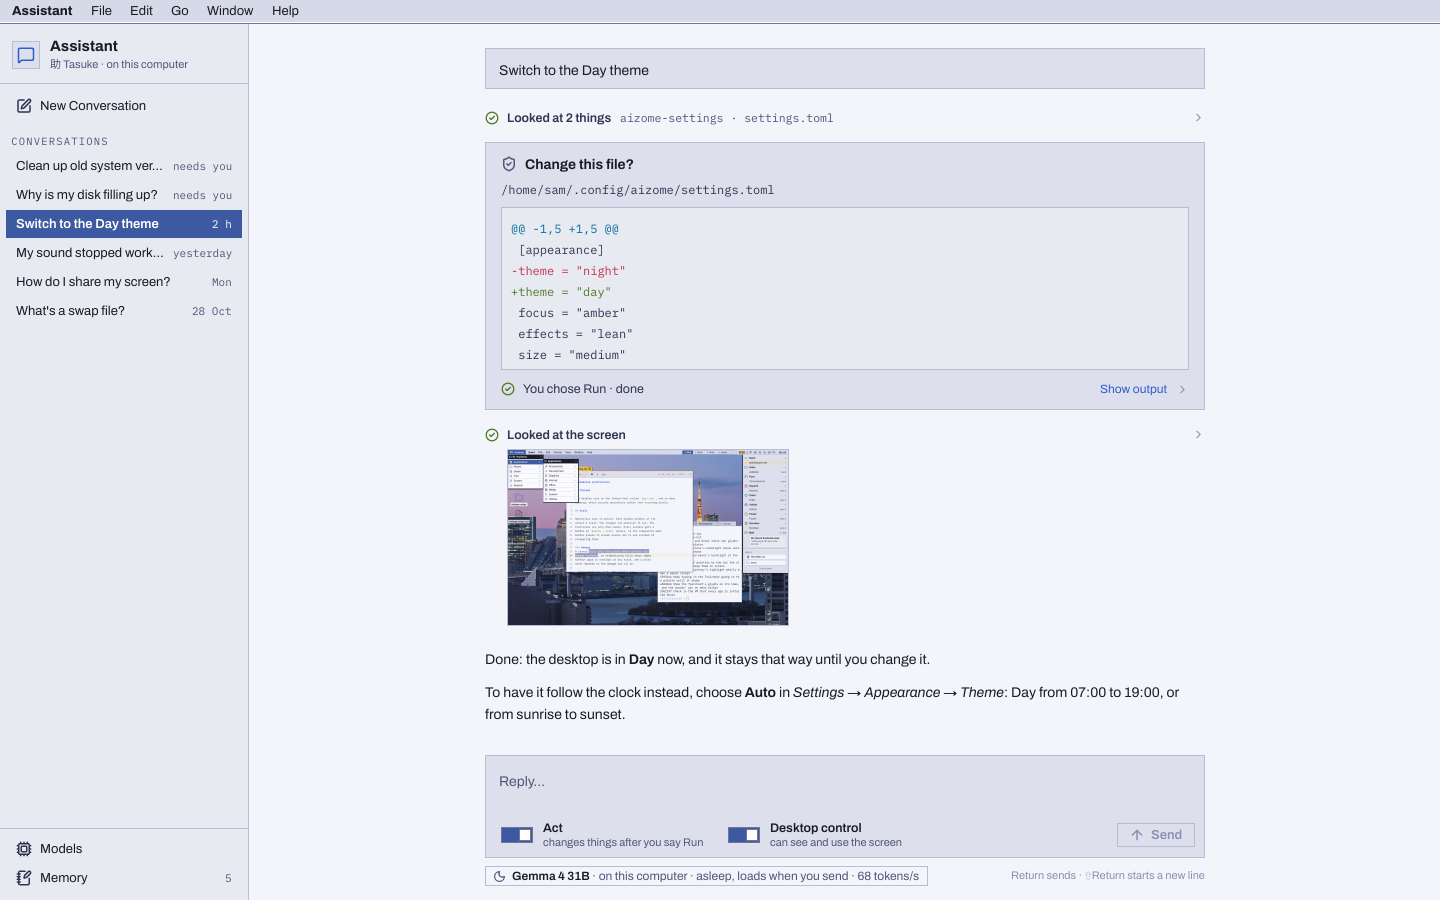
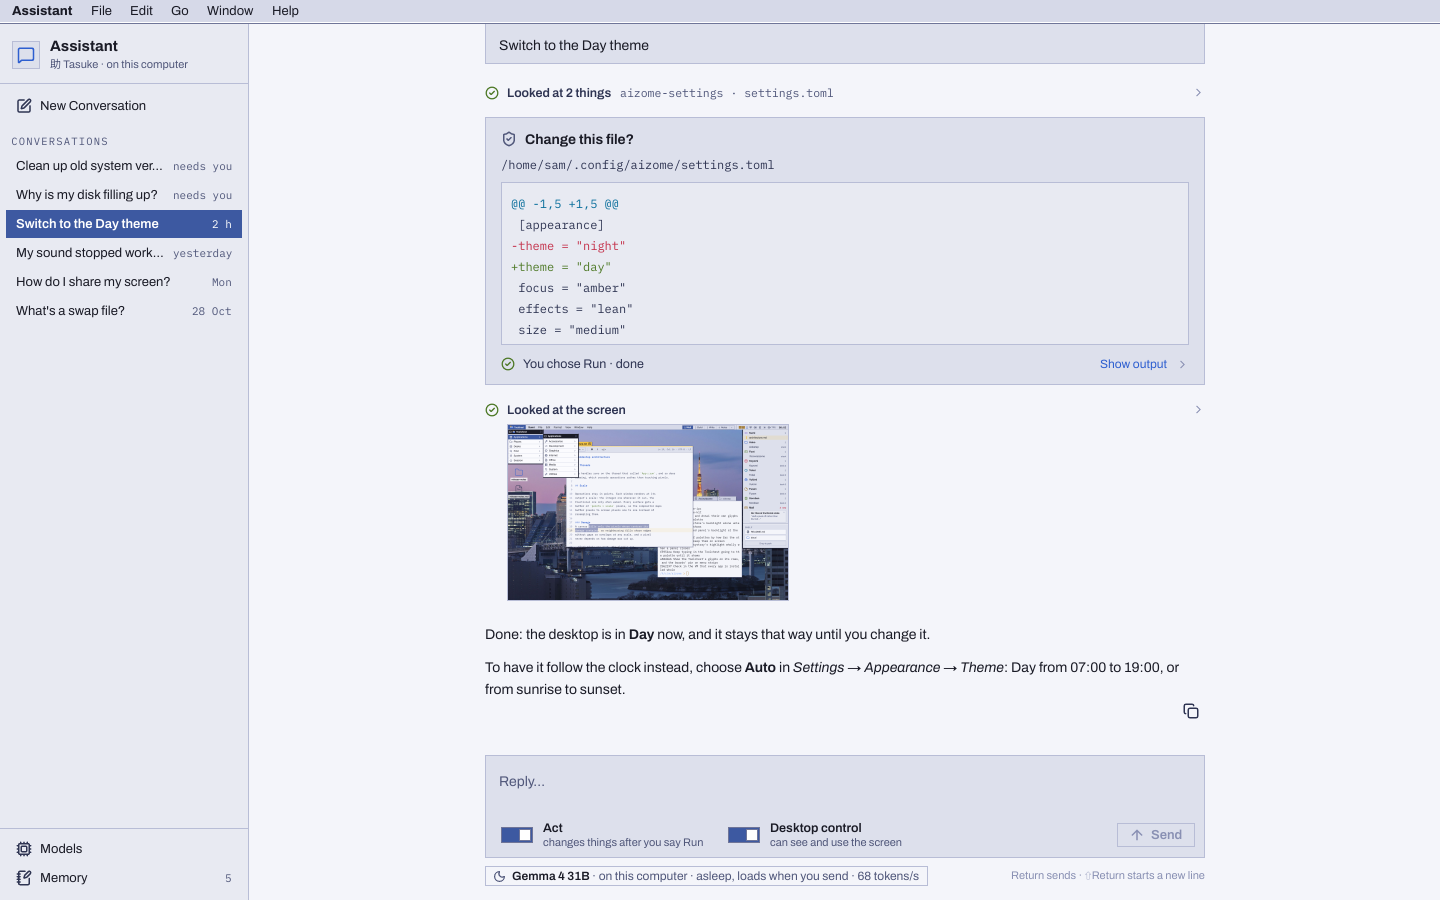
Capture the check-up and server-down fixtures; retake the Day theme pair
The check-up and server-down fixtures in Night and Day, and the Day
theme conversation again, whose finished answer now has its Copy
button. The other eighteen were taken again at the same commit and came
out pixel for pixel the same, so they stay. The provenance says which
commit each was taken at and that fixtures run neither the agent nor a
model.

Changed region(s): [[0.3438, 0.0311, 0.8125, 0.8089], [0.75, 0.3733, 0.8125, 0.4356]]

diff --git a/desktop/aizome/docs/screenshots/tasuke/README.md b/desktop/aizome/docs/screenshots/tasuke/README.md
@@ -19,11 +19,13 @@ ImageMagick's `compare`).
   64 GB; a Ryzen AI Max+ 395 whose Radeon 8060S shares 128 GB), the
   conversations and every command's output in them, and the notes in
   Memory. No computer's or person's data is shown.
-- **Scripted**: Tasuke's agent loop isn't written yet, so the
+- **Scripted**: fixtures don't run Tasuke's agent or a model. Their
   conversations are scripted event streams (`src/script.rs`) played into
-  the same transcript the agent's events will fill. Earlier conversations
-  were played to their end at launch, answering their cards Run; the two
-  newest stop at their cards.
+  the same transcript the agent's events fill, following the agent's
+  skills (the check-up follows `apps/tasuke/skills/sekka-checkup`) and its
+  messages (the server-down error is the agent's own wording for a refused
+  connection). Earlier conversations were played to their end at launch,
+  answering their cards Run; the two newest stop at their cards.
 - The screenshot thumbnail in the *Switch to the Day theme* conversation
   is the Aizome gallery's own `docs/screenshots/07-day.png` (a capture of
   the Day desktop from 18 October 2026), standing in for what the agent's
@@ -37,8 +39,13 @@ then.
 ## How they were made
 
 - **Date**: 5 November 2026.
-- **Build**: the dev profile (`cargo build -p aizome-tasuke`) at
-  `41266f94` on `feat/assistant`, with the repository's Aizome dev shell.
+- **Build**: the dev profile (`cargo build -p aizome-tasuke`) on
+  `feat/assistant`, with the repository's Aizome dev shell: at `41266f94`
+  for eighteen of the pictures, and at `70d629b2` for the check-up and
+  server-down pictures and the Day theme pair, taken again then because
+  a finished answer had gained its Copy button. The others were taken
+  again at `70d629b2` too and came out pixel for pixel the same, so they
+  were kept.
 - **Display**: a private headless sway 1.12 with the pixman renderer
   (`desktop/aizome/sukumo/scripts/headless-wayland`, `SIZE=1440x900`),
   with `WAYLAND_DISPLAY`, `DISPLAY` and `AIZOME_SHELL_SOCKET` unset. The
@@ -62,6 +69,8 @@ then.
 | `night-diagnose.png`, `day-diagnose.png` | `diagnose` | *Why is my disk filling up?*: thinking folded to one line, six read-only steps folded into "Looked at 6 things", a Markdown answer with a table and a list, and a pending approval card for `nix-store --gc` with its purpose and the policy's reason |
 | `night-root-approval.png`, `day-root-approval.png` | `root-approval` | *Clean up old system versions*: a card asking to run a command as administrator, saying a password prompt follows |
 | `night-day-theme.png`, `day-day-theme.png` | `day-theme` | *Switch to the Day theme*, finished: an answered file-change card with its diff and "You chose Run · done", then the screenshot the agent took, as a thumbnail |
+| `night-checkup.png`, `day-checkup.png` | `checkup` | *Give my computer a check-up*: twelve read-only looks folded into "Looked at 12 things", then the report in the check-up skill's format: the verdict, the problem and the warning (✕ and ⚠, in red and amber), one ✓ line of what's fine, and three offered fixes saying which need the administrator password, with Copy under the finished answer |
+| `night-server-down.png`, `day-server-down.png` | `server-down` | A question asked while the model server is down: the agent's "Starting the model server…", then the error as a headline (*The model server can't be reached*) with its detail, Models and Retry; the chip says the server is stopped |
 | `night-models-8gb.png`, `day-models-8gb.png` | `models-8gb` | Models on the 8 GB laptop: the hardware and the budget a model gets (less what the display keeps), and the Assistant role's recommendation, which fits only with part of it in system memory |
 | `night-models-32gb.png`, `day-models-32gb.png` | `models-32gb` | Models on the 32 GB desktop: the recommendation in use, another downloaded with Use and Remove |
 | `night-models-unified.png`, `day-models-unified.png` | `models-unified` | Models on the 128 GB unified-memory machine |

diff --git a/docs/screenshots.md b/docs/screenshots.md
@@ -68,7 +68,8 @@ build from 5 November 2026, each running alone on one of its launch
 fixtures under a private headless sway, with nothing clicked or typed.
 The machines, conversations, command outputs and notes are made up; the
 model catalog and the fit and recommendation code are the real ones. The
-agent loop isn't written yet, so the conversations are scripted. That
+fixtures play scripted conversations and run neither the agent nor a
+model. That
 directory's README.md says what each shows and how it was made.
 
 Desktops are captured whole. An application is captured on its own: the
